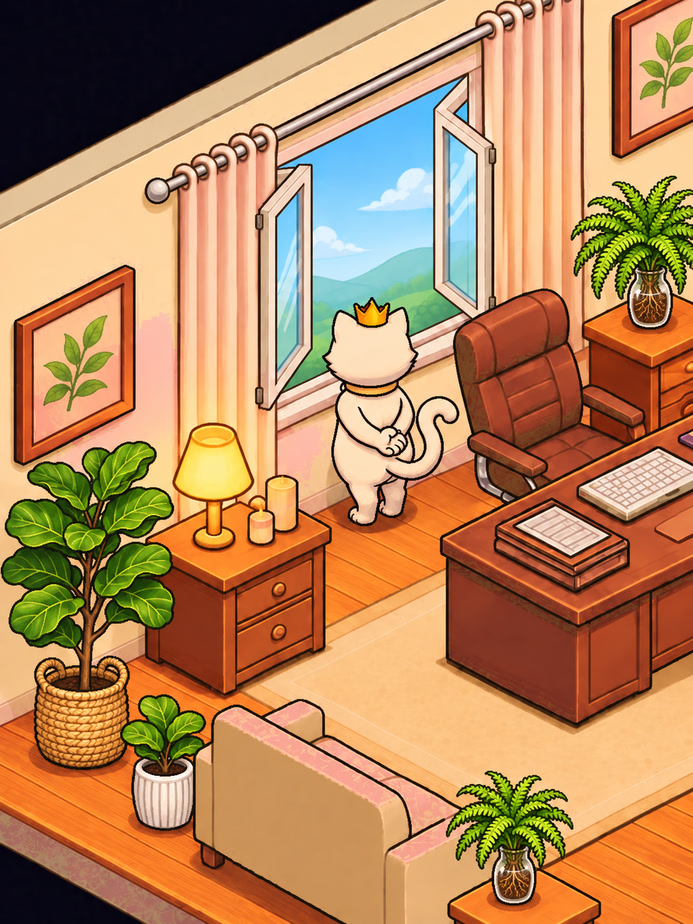
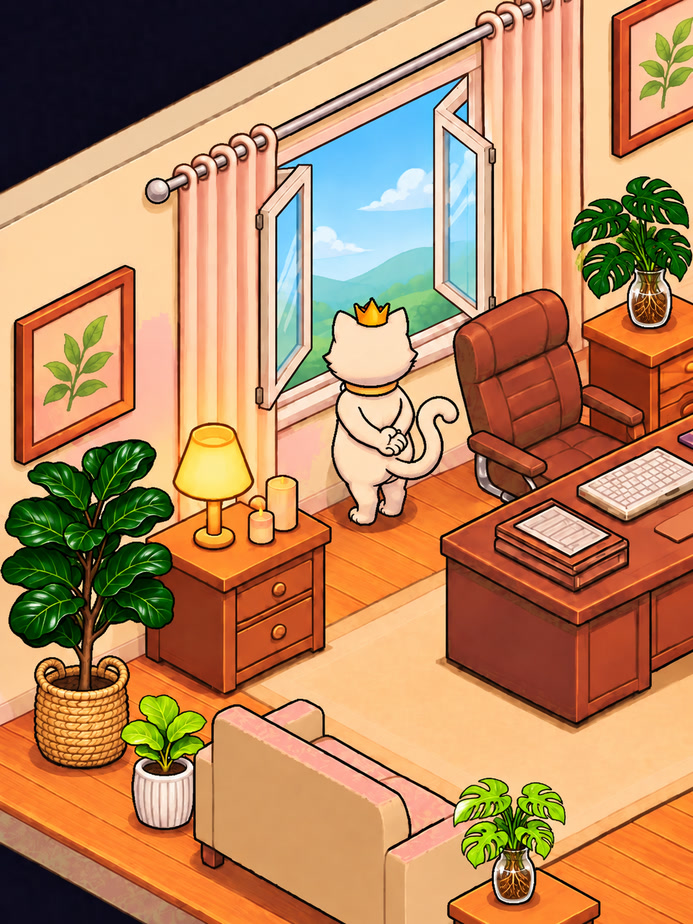
Boss office: monstera instead of ferns, varied greens

diff --git a/index.html b/index.html
@@ -153,7 +153,7 @@
 <div id="setupbox" hidden></div>
 <div id="gossip" role="status">📰 <b id="gossip-h"></b>　<span id="gossip-t"></span></div>
 <div id="room"><svg id="office" viewBox="0 0 1376 768" role="img" aria-label="辦公室即時畫面">
-  <image href="art/office_bg_N3.jpg" width="1376" height="768"/>
+  <image href="art/office_bg_N4.jpg" width="1376" height="768"/>
   <clipPath id="glassclip"><polygon points="696,440 849,361 1007,440 1007,560 849,642 696,556"/></clipPath>
   <image href="art/glass_room_C1.jpg" x="676" y="350" width="340" height="304" clip-path="url(#glassclip)"/>  <!-- 玻璃間內部重畫：桌子轉成人坐後面、面向觀眾 -->
   <!-- 藍鳥 的椅子：底圖沒畫，單獨請 紫貓 畫一把放在他那格 --><g id="bg"></g><g id="world"></g>
@@ -802,7 +802,7 @@ const agoText = s => t('ago', s);
 const mug = (id, pose, cls = '') => { const o = id === 'boss' ? SPR.boss?.[7] : pose === 'sit' ? (SIT[id]?.[0] || SPR[id]?.[0]) : SPR[id]?.[pose]; return o ? `<img class="${cls}" src="${o.url}" alt="">` : ''; };
 let hlSig = '';
 // 回放鏡頭：依紀錄把那一幕重新擺出來（不是錄影）。回傳鏡頭框 box、起點 from、終點 to、畫面 svg(進度 0~1)
-const BGIMG = `<image href="art/office_bg_N3.jpg" width="1376" height="768"/><image href="art/glass_room_C1.jpg" x="676" y="350" width="340" height="304" clip-path="url(#glassclip)"/>`;
+const BGIMG = `<image href="art/office_bg_N4.jpg" width="1376" height="768"/><image href="art/glass_room_C1.jpg" x="676" y="350" width="340" height="304" clip-path="url(#glassclip)"/>`;
 const GLASSFACE = `<polygon points="696,440 849,516 849,642 696,556" fill="#d8f1ff" opacity=".3"/><polygon points="849,516 1007,440 1007,560 849,642" fill="#d8f1ff" opacity=".24"/><path d="M696,440 L849,516 L1007,440 M849,516 L849,642 M696,440 L696,556 L849,642 L1007,560 L1007,440" stroke="#a9dbf0" stroke-width="3.5" fill="none"/>`;
 const tile = (o, x0, y0, x1, y1, cls) => `<g class="${cls}"><svg x="${o.x + o.w * x0}" y="${o.y + o.h * y0}" width="${o.w * (x1 - x0)}" height="${o.h * (y1 - y0)}" viewBox="${o.w * x0} ${o.h * y0} ${o.w * (x1 - x0)} ${o.h * (y1 - y0)}"><image href="${o.url}" width="${o.w}" height="${o.h}" style="image-rendering:pixelated"/></svg></g>`;
 // 坐著的人腰以下要被桌子擋住，不能像被桌面截斷。BACK＝每張桌子靠椅子那一側的桌緣（底圖座標）：桌緣以上＋伸到桌面的手臂那半邊照畫，左下角的腰被桌子擋住
@@ -1069,7 +1069,7 @@ $('world').insertAdjacentHTML('beforebegin', '<defs><mask id="winmask" maskUnits
 $('world').insertAdjacentHTML('beforebegin', '<g id="rockets" style="pointer-events:none"></g>');
 $('world').insertAdjacentHTML('beforebegin', '<g id="seats">' + Object.keys(SEAT).map(id => seatImg(id, true)).join('') + ['open', 'think'].map(k => `<image id="win-${k}" style="display:none" href="art/win_${k}.jpg" x="30" y="70" width="231" height="308" mask="url(#winmask)"/>`).join('') + '</g>');
 $('world').insertAdjacentHTML('afterend', '<g id="seats2">' + Object.keys(SEAT).map(id => seatImg(id, true, true)).join('') + '</g>');
-$('world').insertAdjacentHTML('afterbegin', OCC.map((o, k) => `<image id="o-${k}" href="art/office_bg_N3.jpg" width="1376" height="768" clip-path="url(#occ${k})" style="pointer-events:none"/>`).join('')
+$('world').insertAdjacentHTML('afterbegin', OCC.map((o, k) => `<image id="o-${k}" href="art/office_bg_N4.jpg" width="1376" height="768" clip-path="url(#occ${k})" style="pointer-events:none"/>`).join('')
   + DOORS.map((d, k) => `<g id="d-${k}" style="pointer-events:none"></g>`).join('')
   // 玻璃間朝觀眾的兩面玻璃：畫在 螃蟹 上面，他才是「關在玻璃裡」；站在玻璃外面的人則畫在玻璃前面
   + '<g id="g-face" style="pointer-events:none"><polygon points="696,440 849,516 849,642 696,556" fill="#d8f1ff" opacity=".3"/><polygon points="849,516 1007,440 1007,560 849,642" fill="#d8f1ff" opacity=".24"/>'
@@ -1078,7 +1078,7 @@ $('world').insertAdjacentHTML('afterbegin', OCC.map((o, k) => `<image id="o-${k}
 // 家具的遮蔽圖照實際形狀摳：範圍內不是地板顏色的像素才算家具。
 // 只用多邊形裁會把家具上方的空氣也算進去，角色走到後面會被一條直線切掉（設計者：我該被物品擋到，不是被裁切）
 (async () => {
-  const bmp = await createImageBitmap(await (await fetch('art/office_bg_N3.jpg')).blob());
+  const bmp = await createImageBitmap(await (await fetch('art/office_bg_N4.jpg')).blob());
   const c = Object.assign(document.createElement('canvas'), {width: bmp.width, height: bmp.height}), x = c.getContext('2d', {willReadFrequently: true});
   x.drawImage(bmp, 0, 0);
   const floorLike = (r, g, b) => (r >= 176 && b <= 52 && g >= 78 && g <= 142) || (r >= 235 && g >= 150 && b >= 60 && b <= 120 && r - b > 120);  // 木地板的橘色與亮面反光
